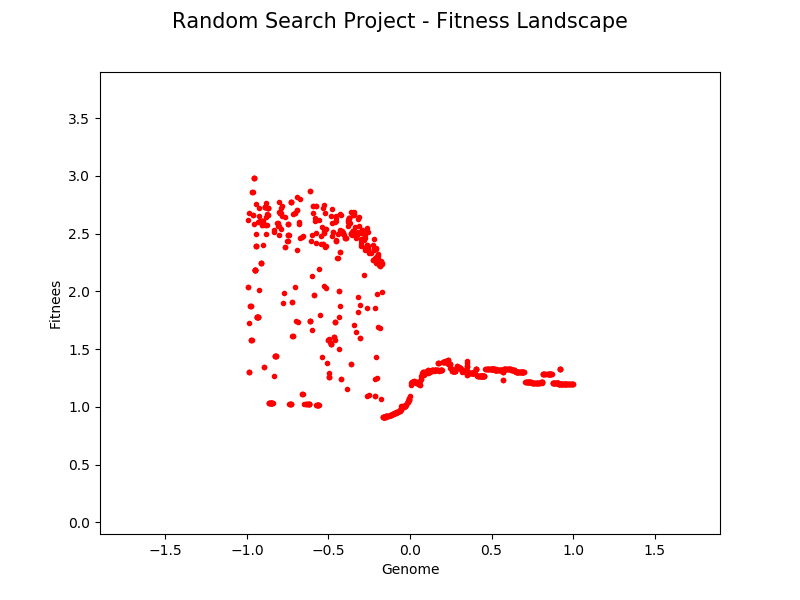
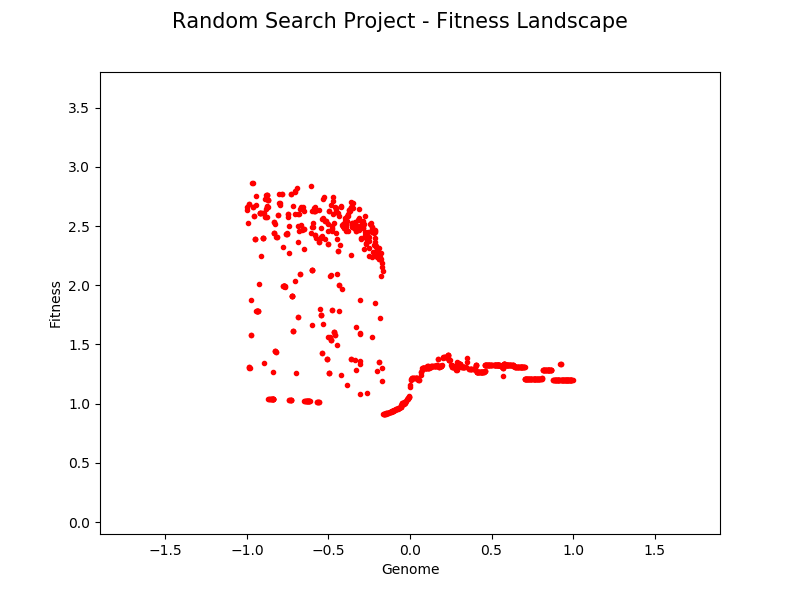
Fitness xlabel spelling correction.

diff --git a/refactoring/randomSearch.py b/refactoring/randomSearch.py
@@ -34,7 +34,7 @@ fig = plt.figure(figsize=(8, 6))
 fig.suptitle('Random Search Project - Fitness Landscape', fontsize=15)
 panel = fig.add_subplot(111)
 panel.set_xlabel('Genome')
-panel.set_ylabel('Fitnees')
+panel.set_ylabel('Fitness')
 panel.set_xlim(xmin, xmax)
 panel.set_ylim(ymin, ymax)
 panel.plot(genomes[0,:], fitness[0,:], '.r')
